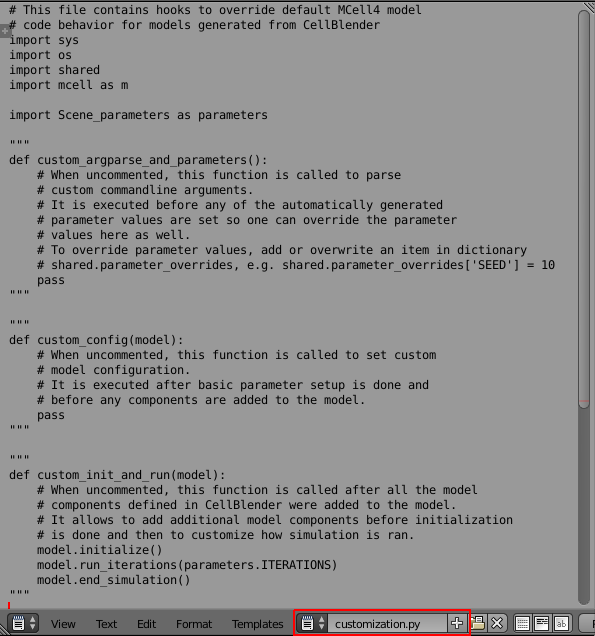
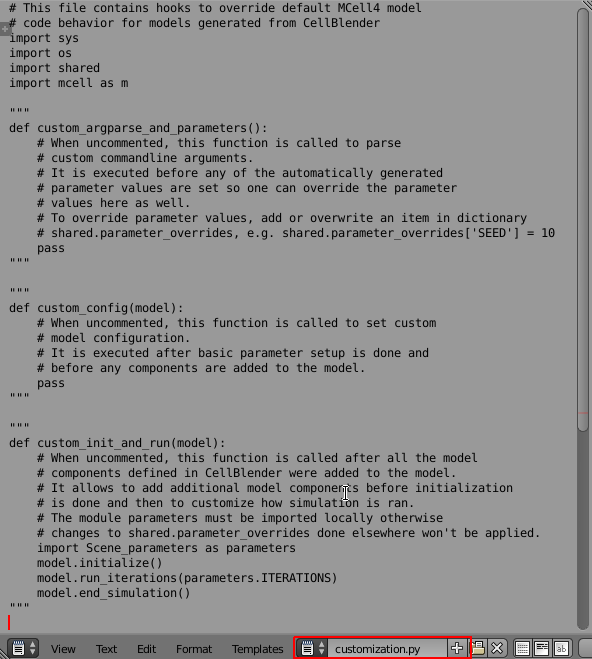
Updated customization tutorial after changes to the customization template

Changed region(s): [[0.0, 0.0, 1.0, 1.0], [0.9122, 0.3884, 0.9426, 0.4182]]

diff --git a/scripting/customization.rst b/scripting/customization.rst
@@ -102,44 +102,47 @@ may look like this:
 
 .. code-block:: python
 
-   import sys
-   import os
-   import shared
-   import mcell as m
-   
-   import Scene_parameters as parameters
-   
-   """
-   def custom_argparse_and_parameters():
-       # When uncommented, this function is called to parse 
-       # custom commandline arguments.
-       # It is executed before any of the automatically generated 
-       # parameter values are set so one can override the parameter 
-       # values here as well.
-       # To override parameter values, add or overwrite an item in dictionary
-       # shared.parameter_overrides, e.g. shared.parameter_overrides['SEED'] = 10
-       pass
-   """
-   
-   """
-   def custom_config(model):
-       # When uncommented, this function is called to set custom
-       # model configuration.
-       # It is executed after basic parameter setup is done and 
-       # before any components are added to the model. 
-       pass
-   """
-   
-   """
-   def custom_init_and_run(model):
-       # When uncommented, this function is called after all the model
-       # components defined in CellBlender were added to the model.
-       # It allows to add additional model components before initialization 
-       # is done and then to customize how simulation is ran.
-       model.initialize()
-       model.run_iterations(parameters.ITERATIONS)
-       model.end_simulation()
-   """
+      # This file contains hooks to override default MCell4 model
+      # code behavior for models generated from CellBlender
+      import sys
+      import os
+      import shared
+      import mcell as m
+      
+      """
+      def custom_argparse_and_parameters():
+          # When uncommented, this function is called to parse 
+          # custom commandline arguments.
+          # It is executed before any of the automatically generated 
+          # parameter values are set so one can override the parameter 
+          # values here as well.
+          # To override parameter values, add or overwrite an item in dictionary
+          # shared.parameter_overrides, e.g. shared.parameter_overrides['SEED'] = 10
+          pass
+      """
+      
+      """
+      def custom_config(model):
+          # When uncommented, this function is called to set custom
+          # model configuration.
+          # It is executed after basic parameter setup is done and 
+          # before any components are added to the model. 
+          pass
+      """
+      
+      """
+      def custom_init_and_run(model):
+          # When uncommented, this function is called after all the model
+          # components defined in CellBlender were added to the model.
+          # It allows to add additional model components before initialization 
+          # is done and then to customize how simulation is ran.
+          # The module parameters must be imported locally otherwise     
+          # changes to shared.parameter_overrides done elsewhere won't be applied.
+          import Scene_parameters as parameters
+          model.initialize()
+          model.run_iterations(parameters.ITERATIONS)
+          model.end_simulation()
+      """
 
 Notice that all the functions are commented out by default. 
 The base code in "customization_files/mcell/output_data/Scene_model.py" check whether 
@@ -256,7 +259,10 @@ using the Blender text editor. We need to udate the function
        # components defined in CellBlender were added to the model.
        # It allows to add additional model components before initialization 
        # is done and then to customize how simulation is ran.
-       
+       # The module parameters must be imported locally otherwise
+       # changes to shared.parameter_overrides done elsewhere won't be applied.
+       import Scene_parameters as parameters
+    
        # find the count object constructed from the BNGL observable
        predator_count = model.find_count('predator_World')
        
